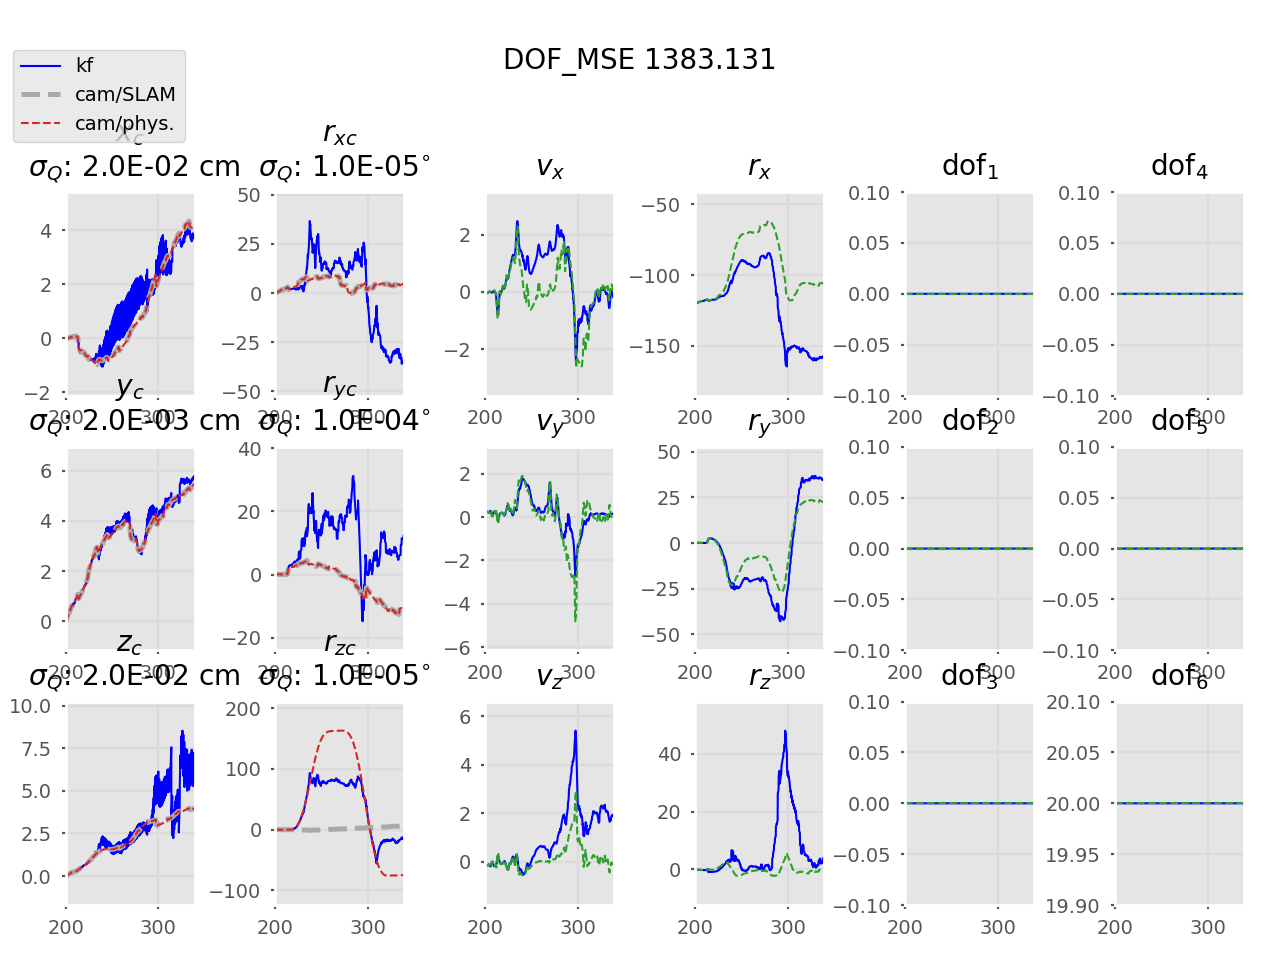
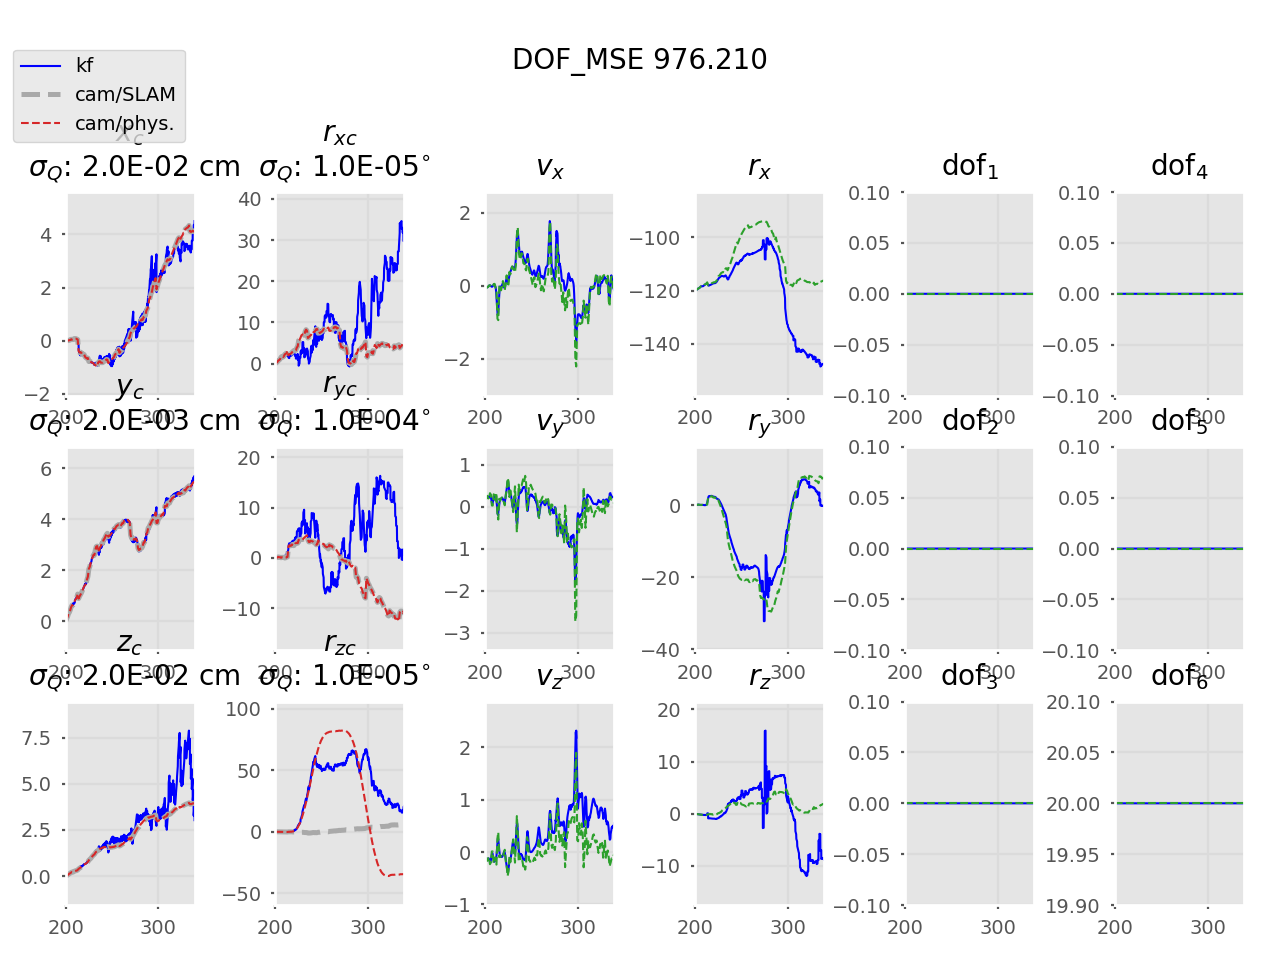
switch to 90deg notch rotations

diff --git a/Filter/Trajectory.py b/Filter/Trajectory.py
@@ -147,7 +147,7 @@ class VisualTraj(Trajectory):
         super().__init__(name, labels, filepath, cap)
 
         self.labels_notch = ['notch', 'notch_d', 'notch_dd']
-        self.notch_filepath = './trajs/notch.txt'
+        self.notch_filepath = './trajs/notch90.txt'
 
         if scale:
             self._apply_scale(scale)
